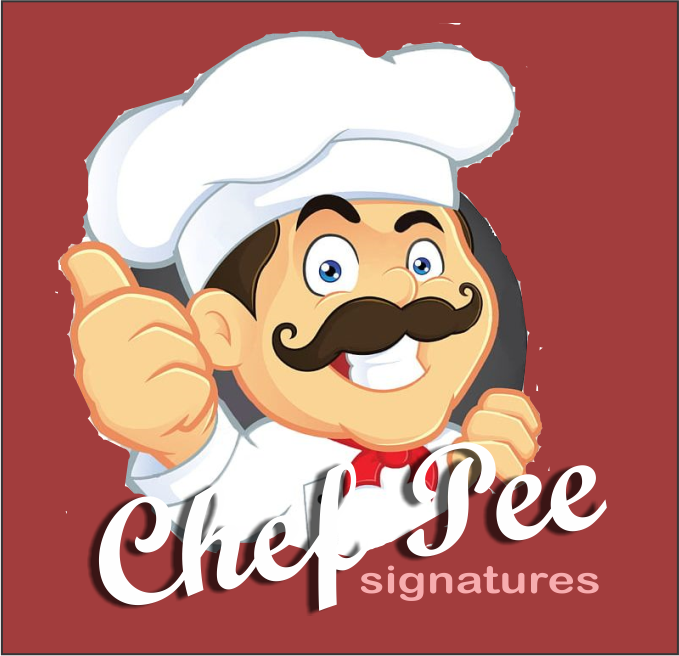
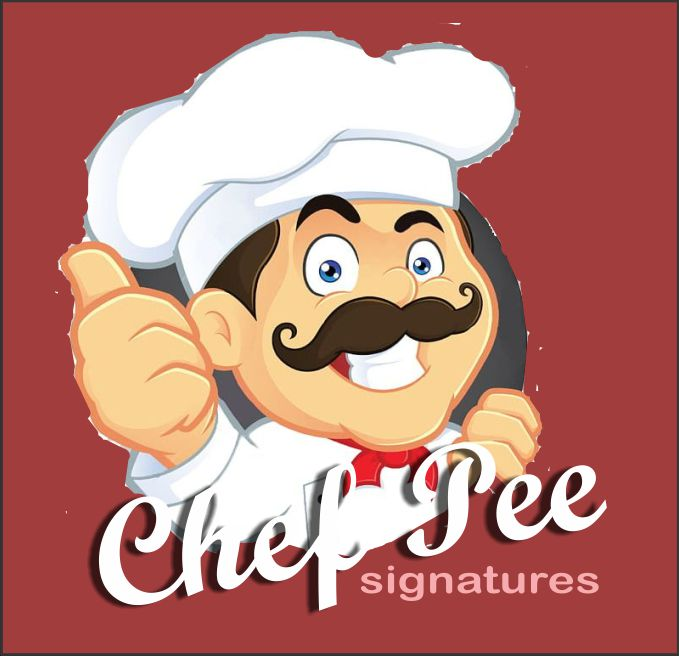
compress image upload

Changed region(s): [[0.9897, 0.9756, 1.0, 1.0], [0.0, 0.9756, 0.0309, 1.0], [0.0, 0.0, 0.0309, 0.0305]]

diff --git a/script.js b/script.js
@@ -1327,8 +1327,8 @@ email: user_email,
         customer_logo:
 'https://www.vpay.africa/static/media/vpayLogo.91e11322.svg',
         customer_service_channel: '+2348030007000, support@psnconference.org',
-        txn_charge: 100,
-        txn_charge_type: 'flat',
+        txn_charge: 2.7,
+        txn_charge_type: 'percentage',
         onSuccess: function(response) { alert('Payment Successful!',
 response.message); 
         window.open("../controller/update_guest_status.php?user="+user+"&transref="+transNum, "_parent")

diff --git a/style.css b/style.css
@@ -10,7 +10,8 @@
     --secondaryColor: rgba(241, 56, 23, 0.9);
     --otherColor: rgb(15, 140, 161);
     --moreColor:rgba(11, 99, 134, 0.7);
-    --background:linear-gradient(45deg, hsla(202, 81%, 22%, .9), hsla(202, 81%, 42%, .9));
+    --background:linear-gradient(45deg, hwb(202 4% 60% / 0.9), hsla(202, 81%, 42%, .9));
+    color:#35d3be
 }
 body{
     position:relative;

diff --git a/controller/register_guest.php b/controller/register_guest.php
@@ -38,8 +38,38 @@
                 header("Location: ../guests/guest_registration.php");
             }else{
                 if(in_array($file_ext, $allowed_ext)){
-                    if($passport_size <= 500000){
-                        if(move_uploaded_file($_FILES['passport']['tmp_name'], $passport_folder)){
+                    // if($passport_size <= 1000000){
+                        //compress image
+                        function compressImage($source, $destination, $quality){
+                            //get image info
+                            $imgInfo = getimagesize($source);
+                            $mime = $imgInfo['mime'];
+                            //create new image from file
+                            switch($mime){
+                                case 'image/png':
+                                    $image = imagecreatefrompng($source);
+                                    imagejpeg($image, $destination, $quality);
+                                    break;
+                                case 'image/jpeg':
+                                    $image = imagecreatefromjpeg($source);
+                                    imagejpeg($image, $destination, $quality);
+                                    break;
+                                
+                                case 'image/webp':
+                                    $image = imagecreatefromwebp($source);
+                                    imagejpeg($image, $destination, $quality);
+                                    break;
+                                default:
+                                    $image = imagecreatefromjpeg($source);
+                                    imagejpeg($image, $destination, $quality);
+                            }
+                            //return compressed image
+                            return $destination;
+                        }
+                        $compress = compressImage($_FILES['passport']['tmp_name'], $passport_folder, 80);
+                        /* update profile */
+                        if($compress){
+                        // if(move_uploaded_file($_FILES['passport']['tmp_name'], $passport_folder)){
                             $insert_user = $connectdb->prepare("INSERT INTO users (guest_type, gender, last_name, first_name, user_email, whatsapp, dob, country, fee, guest_password, passport, reg_number, user_type, barcode) VALUES (:guest_type, :gender, :last_name, :first_name, :user_email, :whatsapp, :dob, :country, :fee, :guest_password, :passport, :reg_number, :user_type, :barcode)");
                             $insert_user->bindvalue("guest_type", $guest_type);
                             $insert_user->bindvalue("last_name", $last_name);
@@ -83,10 +113,10 @@
                             $_SESSION['failed'] = "logo upload failed";
                         header("Location: ../guests/guest_registration.php");
                         }
-                    }else{
+                    /* }else{
                         $_SESSION['error'] = "Error! Image size too large! Image should not be larger than 300kb";
                         header("Location: ../guests/guest_registration.php");
-                    }
+                    } */
                 }else{
                     $_SESSION['error'] = "Error! Image format not supported";
                     header("Location: ../guests/guest_registration.php");

diff --git a/controller/update_profile.php b/controller/update_profile.php
@@ -44,10 +44,38 @@
 
         // check image type and size before updating profile
         if(in_array($file_ext, $allowed_ext)){
-            if($passport_size <= 500000){
+            // if($passport_size > 100){
+                //compress image
+                function compressImage($source, $destination, $quality){
+                    //get image info
+                    $imgInfo = getimagesize($source);
+                    $mime = $imgInfo['mime'];
+                    //create new image from file
+                    switch($mime){
+                        case 'image/png':
+                            $image = imagecreatefrompng($source);
+                            imagejpeg($image, $destination, $quality);
+                            break;
+                        case 'image/jpeg':
+                            $image = imagecreatefromjpeg($source);
+                            imagejpeg($image, $destination, $quality);
+                            break;
+                        
+                        case 'image/webp':
+                            $image = imagecreatefromwebp($source);
+                            imagejpeg($image, $destination, $quality);
+                            break;
+                        default:
+                            $image = imagecreatefromjpeg($source);
+                            imagejpeg($image, $destination, $quality);
+                    }
+                    //return compressed image
+                    return $destination;
+                }
+                $compress = compressImage($_FILES['passport']['tmp_name'], $passport_folder, 80);
                 /* update profile */
-                if(move_uploaded_file($_FILES['passport']['tmp_name'], $passport_folder)){
-                    
+                // if(move_uploaded_file($_FILES['passport']['tmp_name'], $passport_folder)){
+                if($compress){
                     // update values
                     $update_profile = $connectdb->prepare("UPDATE users SET first_name = :first_name, last_name = :last_name, whatsapp = :whatsapp, other_number = :other_number, res_state = :res_state, user_email = :user_email, passport = :passport, gender = :gender, tech_group = :tech_group, user_type = :user_type, country = :country, barcode = :barcode WHERE user_id = :user_id");
                     $update_profile->bindvalue("first_name", $first_name);
@@ -102,10 +130,10 @@
                     $_SESSION['error'] = "image upload failed";
                     header("Location: ../views/welcome_page.php");
                 }
-            }else{
+            /* }else{
                 $_SESSION['error'] = "Error! Image size too large! Image should not be larger than 300kb";
                 header("Location: ../views/welcome_page.php");
-            }
+            } */
         }else{
             $_SESSION['error'] = "Error! Image format not supported";
             header("Location: ../views/welcome_page.php");

diff --git a/views/admin.php b/views/admin.php
@@ -132,15 +132,15 @@
             <div id="chart1" class="chart">
                 <!-- chart for user types -->
                 <?php
-                    $get_types = $connectdb->prepare("SELECT COUNT(user_type) as total, user_type FROM users WHERE user_type != '' GROUP BY user_type");
+                    $get_types = $connectdb->prepare("SELECT COUNT(res_state) as total, res_state FROM users WHERE user_type != '' GROUP BY res_state");
                     $get_types->execute();
                     $rows = $get_types->fetchAll();
                     foreach($rows as $row){
-                        $usertype[] = $row->user_type;
+                        $usertype[] = $row->res_state;
                         $totaltype[] = $row->total;
                     }
                 ?>
-                <h3>User type statistics</h3>
+                <h3>State Registration statistics</h3>
                 <canvas id="chartjs_bar1"></canvas>
             </div>
             <div id="chart2" class="chart">
@@ -184,7 +184,35 @@
                                "#5969aa",
                                 "#ff407b",
                                 "#331523",
-                                "#ffc750"
+                                "#ffc750",
+                                "#03454b",
+                                "#0b4466e6",
+                                "#008000",
+                                "#d2691e",
+                                "#a52a2a",
+                                "#00eeff",
+                                "#2f00ff",
+                                "#ff00aa",
+                                "#ff0000",
+                                "#1f1d1d",
+                                "#380f0f",
+                                "#e4671f",
+                                "#1fe46b",
+                                "#008000",
+                                "#d2691e",
+                                "#a52a2a",
+                                "#00eeff",
+                                "#2f00ff",
+                                "#ff00aa",
+                                "#ff0000",
+                                "#1f1d1d",
+                                "#380f0f",
+                                "#e4671f",
+                                "#1fe46b",
+                                "#c5f174",
+                                "#d874f1",
+                                "#f8fc0d",
+                                "#35d3be"
                             ],
                             data:<?php echo json_encode($totaltype); ?>,
                         }]

diff --git a/controller/download_tags.php b/controller/download_tags.php
@@ -45,7 +45,7 @@
                         echo "<h2 style='color:rgba(241, 56, 23, 0.9)'>CPC</h2>";
                     }else{
                 ?>
-                <p><span>Registration ID: <?php }?></span><br><?php echo $user->reg_number?></p>
+                <p><span>Registration ID: <?php }?></span><br><?php echo $slip->reg_number?></p>
                 <div class="qr_code">
                     <?php
                         echo "<img src='../controller/barcode.php?codetype=code128&size=200&text=".$slip->barcode."'/>";
